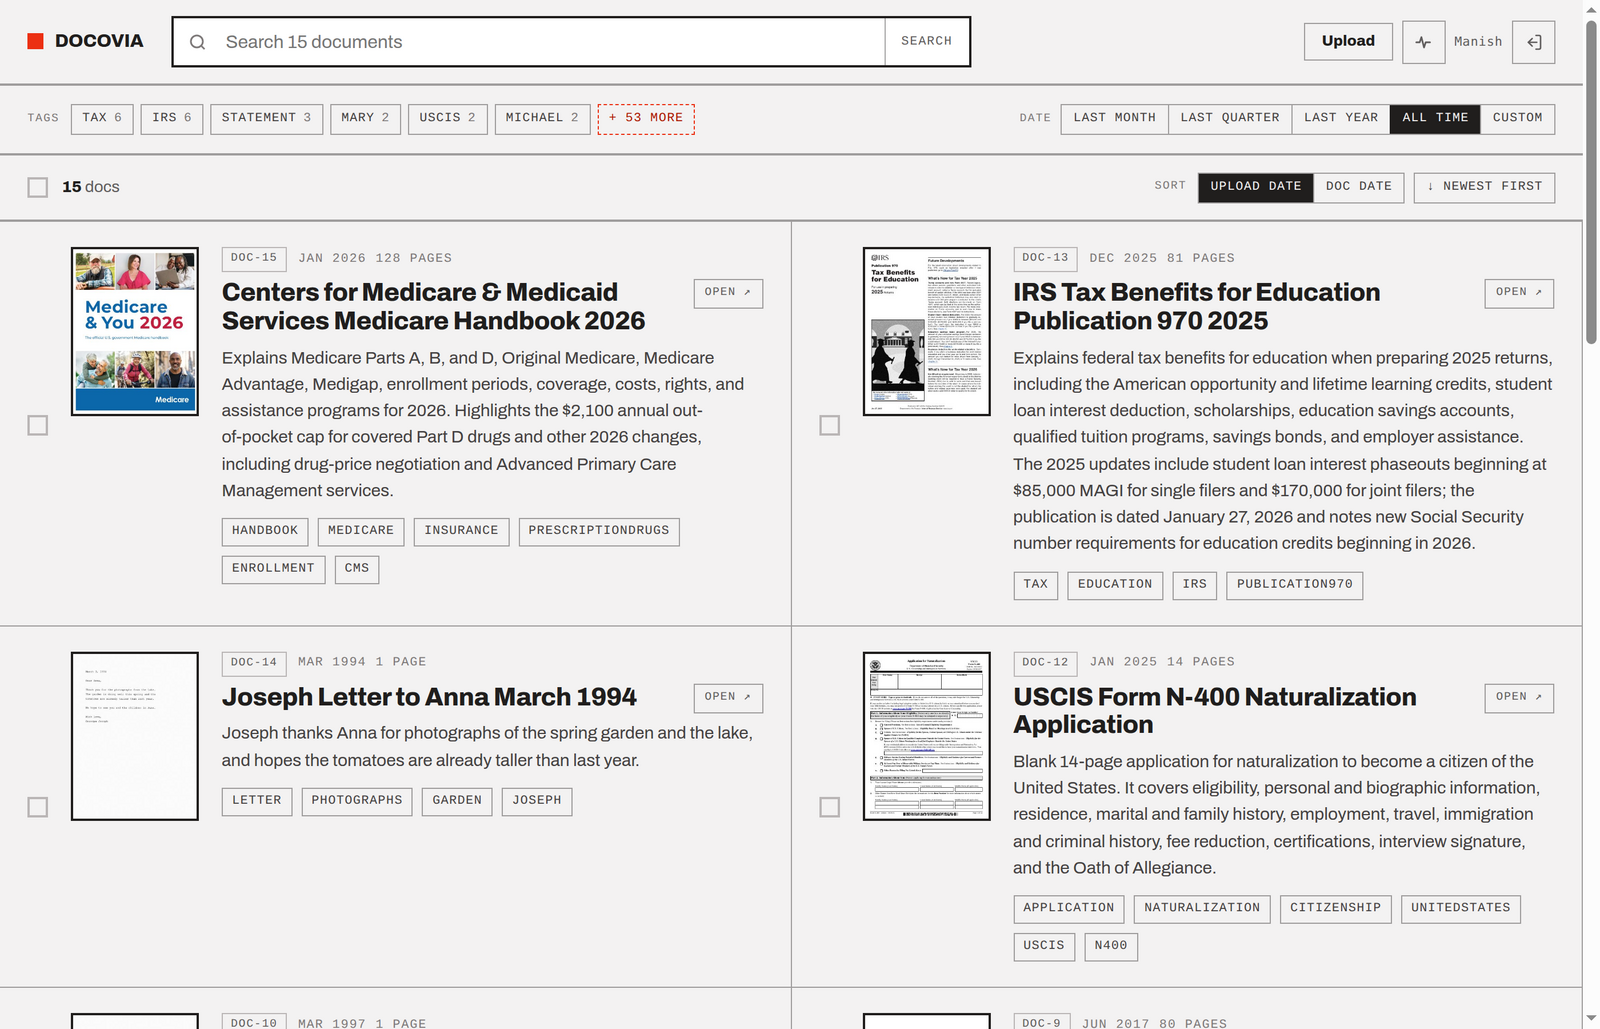
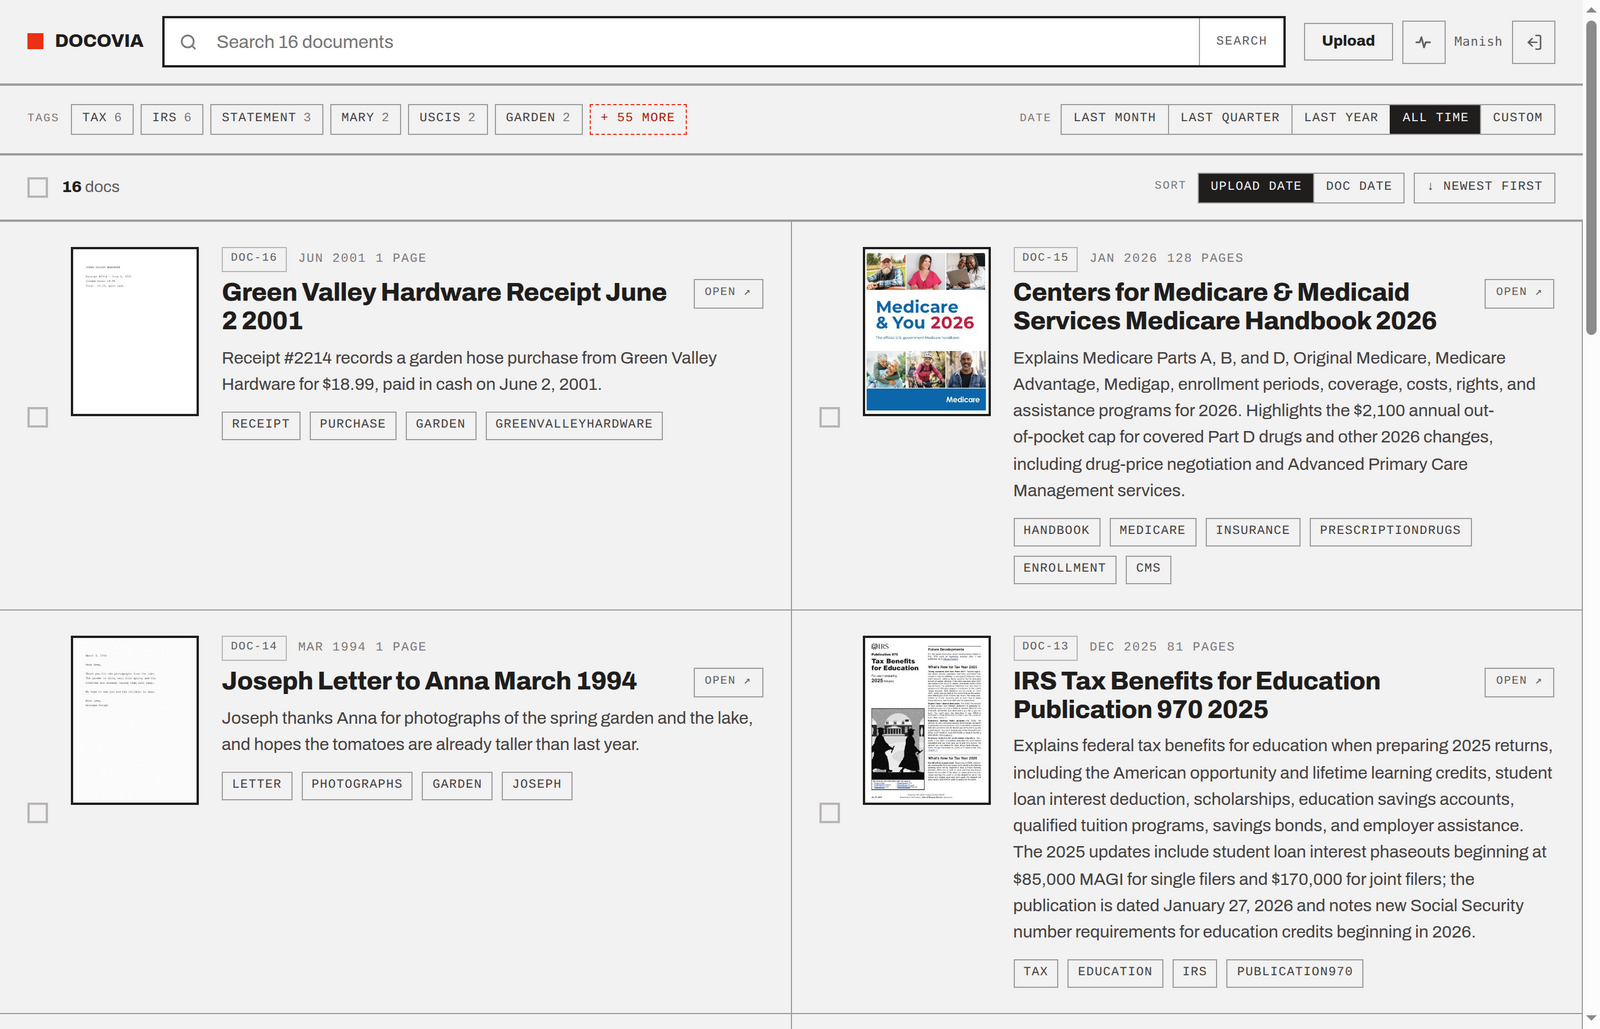
Match the mock: full-width search, mobile name and bulk-action row
The 700px search cap is gone — the mock moved on, the box now takes
everything between the brand and the buttons at any width, gap 16px.
On a phone the signed-in name rides between the brand and Upload,
stretched and ellipsized instead of hidden; the bulk actions take a
whole line under the count (display:contents lifts them out of the
sliver the sort control left), with the mock's short labels — + Tag,
− Tag, Trash, Delete — swapped in by CSS. README screenshots refreshed.

Claude-Session: https://claude.ai/code/session_019ev7ZAvsZ6GhPgEqEzmggZ

diff --git a/static/style.css b/static/style.css
@@ -267,7 +267,7 @@ main {
 .topbar {
   display: flex;
   align-items: center;
-  gap: var(--space-6);
+  gap: var(--space-4);
   padding: 14px var(--space-6);
   border-bottom: 2px solid var(--color-divider);
 }
@@ -294,15 +294,11 @@ main {
 .brand:hover { color: var(--color-text); }
 
 /* The search field is the one place a 2px ink border is used for emphasis
-   rather than for structure — it is the primary action on the page. Capped
-   rather than edge to edge: in the design the box shares its row with a
-   200px brand and a full identity cluster, and on a sparse topbar an
-   uncapped flex:1 ran the full width and crowded the icons beside it. The
-   leftover space lands between the box and the nav, which is the breathing
-   room the design shows. */
+   rather than for structure — it is the primary action on the page, and per
+   the mock it takes every pixel between the brand and the buttons, at any
+   width. (It was briefly capped at 700px; the design moved on.) */
 .searchbox {
   flex: 1;
-  max-width: 700px;
   display: flex;
   min-width: 0;
   border: 2px solid var(--color-text);
@@ -359,9 +355,6 @@ main {
   align-items: center;
   gap: var(--space-2);
   flex: none;
-  /* With the searchbox capped, the leftover width goes here — between the
-     box and the icons — rather than stretching the box to meet them. */
-  margin-left: auto;
 }
 
 /* Icon-square button in the topbar, sized to the mock: 38px, 34 on mobile.
@@ -700,6 +693,8 @@ main {
   align-items: center;
   gap: var(--space-2);
 }
+/* The short spellings exist for phones; here the full ones speak. */
+.bulk-short { display: none; }
 /* Invisible, not absent: removing it would shove the results down and back
    every time the first box is ticked.
    Asked of the checkboxes themselves rather than of a count JavaScript writes
@@ -1598,7 +1593,10 @@ button.pill-plain {
     padding: var(--space-3) var(--space-4);
   }
   .searchbox { order: 3; flex-basis: 100%; }
-  .topbar nav { margin-left: auto; }
+  /* The nav takes the rest of the brand's row so the name can stretch and
+     truncate inside it; flex-end keeps the buttons on the right edge when
+     nobody is signed in and there is no name to do the stretching. */
+  .topbar nav { flex: 1; min-width: 0; justify-content: flex-end; }
 
   /* One line in place of the whole bar: a row of tag pills beside a
      five-segment date control does not fit, and wrapping them both just
@@ -1732,6 +1730,19 @@ button.pill-plain {
     align-items: center;
     gap: 10px;
   }
+  /* Per the mock: count on the left, sort on the right, and the bulk actions
+     on a whole line under both instead of squeezing beside the count.
+     display:contents lifts the group's children into the results-head row,
+     so the actions' 100% is the whole bar rather than the sliver the sort
+     control leaves over. Display none rather than the desktop's visibility
+     hidden: an invisible row that still reserved its line would put a
+     permanent blank stripe under every phone's result count. */
+  .picked { display: contents; }
+  .picked .count { margin-right: auto; }
+  .picker-actions { order: 5; flex-basis: 100%; flex-wrap: wrap; row-gap: 6px; }
+  .picker:not(:has(.pick:not(.pick-all):checked)) .picker-actions { display: none; }
+  .bulk-long { display: none; }
+  .bulk-short { display: inline; }
   .results-head .sort { flex-wrap: wrap; gap: 6px; }
   .results-head .sort > .micro { display: none; }
   .sort-dir .dir-full { display: none; }
@@ -1779,7 +1790,17 @@ button.pill-plain {
   .doc-head-actions .act { width: 44px; height: 44px; display: flex; align-items: center; justify-content: center; padding: 0; }
   .iconbtn { width: 34px; height: 34px; }
   .iconbtn svg { width: 16px; height: 16px; }
-  .who { display: none; }
+  /* Per the mock: the name rides between the brand and the buttons,
+     stretched and ellipsized rather than hidden. order pulls it ahead of
+     Upload — in the DOM it sits next to Sign out, which it belongs to. */
+  .who {
+    order: -1;
+    flex: 1;
+    min-width: 0;
+    max-width: none;
+    font-size: 10px;
+    text-align: left;
+  }
   .tool { width: 44px; height: 44px; }
   .pill-x { font-size: 17px; }
   .page { padding: var(--space-4); }

diff --git a/templates/index.html b/templates/index.html
@@ -218,15 +218,17 @@
              both are inside this one form and both post on every submit; a
              second field called "tag" would be read instead of the one that
              was typed into. */}}
+        {{/* Two spellings per label: the mock shortens them on a phone, where
+             "Move to trash" costs the row a second line. CSS shows one. */}}
         <details class="bulk-tag">
-          <summary class="btn btn-secondary btn-sm">Add tag</summary>
+          <summary class="btn btn-secondary btn-sm"><span class="bulk-long">Add tag</span><span class="bulk-short">+ Tag</span></summary>
           <div class="bulk-pop">
             <input type="text" name="tag-add" list="tag-vocab" placeholder="Search tags…" autocomplete="off">
             <button type="submit" formaction="/docs/tags/add" class="btn btn-primary btn-sm">Add</button>
           </div>
         </details>
         <details class="bulk-tag">
-          <summary class="btn btn-secondary btn-sm">Remove tag</summary>
+          <summary class="btn btn-secondary btn-sm"><span class="bulk-long">Remove tag</span><span class="bulk-short">&minus; Tag</span></summary>
           <div class="bulk-pop">
             <input type="text" name="tag-remove" list="tag-vocab" placeholder="Search tags…" autocomplete="off">
             <button type="submit" formaction="/docs/tags/remove" class="btn btn-primary btn-sm">Remove</button>
@@ -242,10 +244,10 @@
                   class="btn btn-primary btn-sm">Restore</button>
           <button type="submit" formaction="/docs/action" name="action" value="purge"
                   class="btn btn-ghost btn-sm"
-                  onclick="return confirm('Delete the selected documents forever? The files are removed and cannot be restored.')">Delete forever</button>
+                  onclick="return confirm('Delete the selected documents forever? The files are removed and cannot be restored.')"><span class="bulk-long">Delete forever</span><span class="bulk-short">Delete</span></button>
         {{else}}
           <button type="submit" formaction="/docs/action" name="action" value="trash"
-                  class="btn btn-primary btn-sm">Move to trash</button>
+                  class="btn btn-primary btn-sm"><span class="bulk-long">Move to trash</span><span class="bulk-short">Trash</span></button>
         {{end}}
         <button type="button" class="pill-plain picker-clear">Clear</button>
       </div>

diff --git a/README.md b/README.md
@@ -17,19 +17,21 @@ First, I (Manish) would like to thank paperless-ngx. I self-host it and it got
 me away from the control of Dropbox and Google Drive, and showed me what's
 possible.
 
-I wrote this after growing unhappy with paperless-ngx: search was slow,
+After months of usage, I grew unhappy with paperless-ngx: search was slow,
 the quality of results was bad, and the whole interface felt oldschool and
 buggy.
 
 My first attempt was to run Typesense search over paperless-ngx, which produced
-remarkably better results. That's when I decided to build Docovia from scratch.
+remarkably better results. Emboldened by that, I decided to build Docovia from
+scratch.
 
-I used Claude to co-author it over a busy family-oriented weekend and a couple
-of weekdays. My prime focus was on Design, UI/UX, enrichment (LLM) and search
-quality. I didn't get a lot of time to do thorough code reviews upfront, which I
-paid for later, untangling some of the complexity the coding agent brought.
+I used Claude to co-author it over a busy family-oriented weekend and 3
+weekdays. My prime focus was on Design, UI/UX over both desktop and mobile,
+enrichment (LLM) and search quality. I didn't get a lot of time to do thorough
+code reviews upfront, which I paid for later, untangling some of the complexity
+the coding agent brought.
 
-## Naturalization of a Doc in Docovia
+## Naturalization Process
 
 Docovia is great because you can just dump your documents without worrying about
 any folder level organization. Once uploaded, Docovia would process a doc as
@@ -37,15 +39,15 @@ follows:
 
 1. Check for duplicates via SHA checksum and reject if it finds one.
 1. Unlock if locked, trying every known password from previous successful
-   unlocks. It would overwrite the original with this unlocked version, while
+   unlocks. Overwrite the original with this unlocked version, while
    keeping the original's checksum to catch duplicates.
 1. Extract text, either by reading the native text layer or running OCR over
    them.
-1. Send the extracted text to LLM (OpenAI) to figure out title, document
+1. Send extracted text to LLM (OpenAI) to determine title, document
    date, tags and summary.
 1. Index the doc in Typesense, which holds everything in RAM - search is
    instant, scored and full-text.
-1. The Doc is now fully naturalized citizen of Docovia, Welcome!
+1. The Doc is now fully naturalized citizen of Docovia. Welcome!
 
 ![A naturalized document: an OCR'd 1997 utility bill with its date, tags, AI summary and the naturalization timeline](screenshots/doc-view.png)
 
